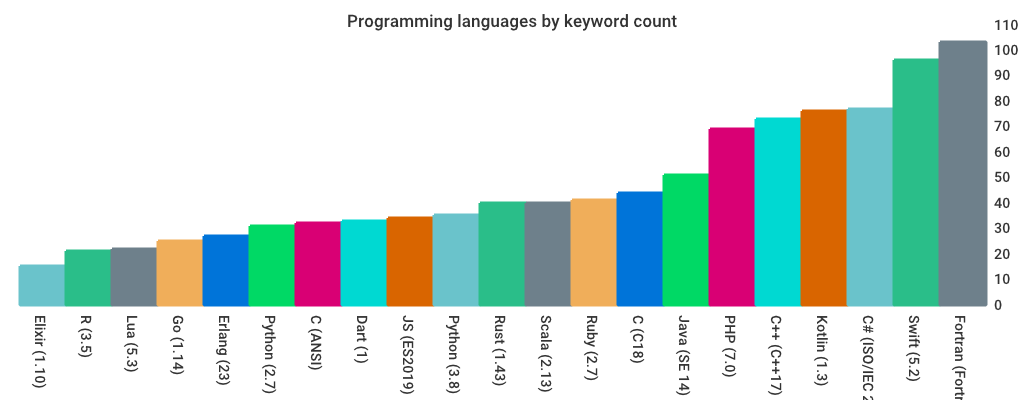
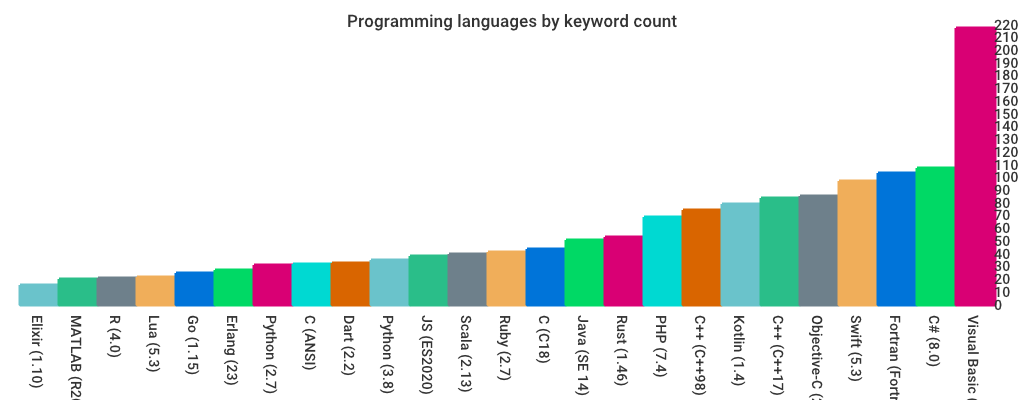
[skip ci] Rebuild README.md and chart.png from chart.yaml update

diff --git a/README.md b/README.md
@@ -3,6 +3,8 @@
 A list and count of keywords in programming languages. Based on work originally
 compiled by [@leighmcculloch](https://github.com/leighmcculloch) and contributors.
 
+_2020 update:_ I'm slowly working through this list and trying to standardize the meaning of "keyword" to be any word with special meaning in the language, as opposed to "reserved words" which cannot be used as identifiers. You may see some drastic changes depending on the language.
+
 ![Languages by keyword](chart.png)
 
 ## Why does it matter?
@@ -17,25 +19,29 @@ Don't see a language here? Please open a pull request adding it!
 
 * [C (ANSI) (32 keywords)](#c-ansi-32-keywords)
 * [C (C18) (44 keywords)](#c-c18-44-keywords)
-* [C# (ISO/IEC 23270:2018) (77 keywords)](#c-iso-iec-23270-2018-77-keywords)
-* [C++ (C++17) (73 keywords)](#c-c-17-73-keywords)
-* [Dart (1) (33 keywords)](#dart-1-33-keywords)
+* [C# (8.0) (107 keywords)](#c-80-107-keywords)
+* [C++ (C++17) (84 keywords)](#c-c-17-84-keywords)
+* [C++ (C++98) (74 keywords)](#c-c-98-74-keywords)
+* [Dart (2.2) (33 keywords)](#dart-22-33-keywords)
 * [Elixir (1.10) (15 keywords)](#elixir-110-15-keywords)
 * [Erlang (23) (27 keywords)](#erlang-23-27-keywords)
 * [Fortran (Fortran 2008) (103 keywords)](#fortran-fortran-2008-103-keywords)
-* [Go (1.14) (25 keywords)](#go-114-25-keywords)
-* [JS (ES2019) (34 keywords)](#js-es2019-34-keywords)
+* [Go (1.15) (25 keywords)](#go-115-25-keywords)
+* [JS (ES2020) (38 keywords)](#js-es2020-38-keywords)
 * [Java (SE 14) (51 keywords)](#java-se-14-51-keywords)
-* [Kotlin (1.3) (76 keywords)](#kotlin-13-76-keywords)
+* [Kotlin (1.4) (79 keywords)](#kotlin-14-79-keywords)
 * [Lua (5.3) (22 keywords)](#lua-53-22-keywords)
-* [PHP (7.0) (69 keywords)](#php-70-69-keywords)
+* [MATLAB (R2020a) (20 keywords)](#matlab-r2020a-20-keywords)
+* [Objective-C (2.0) (85 keywords)](#objective-c-20-85-keywords)
+* [PHP (7.4) (69 keywords)](#php-74-69-keywords)
 * [Python (2.7) (31 keywords)](#python-27-31-keywords)
 * [Python (3.8) (35 keywords)](#python-38-35-keywords)
-* [R (3.5) (21 keywords)](#r-35-21-keywords)
+* [R (4.0) (21 keywords)](#r-40-21-keywords)
 * [Ruby (2.7) (41 keywords)](#ruby-27-41-keywords)
-* [Rust (1.43) (40 keywords)](#rust-143-40-keywords)
+* [Rust (1.46) (53 keywords)](#rust-146-53-keywords)
 * [Scala (2.13) (40 keywords)](#scala-213-40-keywords)
-* [Swift (5.2) (96 keywords)](#swift-52-96-keywords)
+* [Swift (5.3) (97 keywords)](#swift-53-97-keywords)
+* [Visual Basic (2019) (217 keywords)](#visual-basic-2019-217-keywords)
 
 ### C (ANSI) (32 keywords)
 | | | | |
@@ -72,7 +78,7 @@ Don't see a language here? Please open a pull request adding it!
 #### Sources:
 
 [http://www.open-std.org/jtc1/sc22/wg14/www/abq/c17_updated_proposed_fdis.pdf](http://www.open-std.org/jtc1/sc22/wg14/www/abq/c17_updated_proposed_fdis.pdf)
-### C# (ISO/IEC 23270:2018) (77 keywords)
+### C# (8.0) (107 keywords)
 | | | | |
 |---|---|---|---|
 |  abstract | as | base | bool |
@@ -94,13 +100,20 @@ Don't see a language here? Please open a pull request adding it!
 |  true | try | typeof | uint |
 |  ulong | unchecked | unsafe | ushort |
 |  using | virtual | void | volatile |
-|  while |
+|  while | add | alias | ascending |
+|  async | await | by | descending |
+|  dynamic | equals | from | get |
+|  global | group | into | join |
+|  let | nameof | notnull | on |
+|  orderby | partial | remove | select |
+|  set | unmanaged | value | var |
+|  when | where | yield |
 
 
 #### Sources:
 
 [https://standards.iso.org/ittf/PubliclyAvailableStandards/c075178_ISO_IEC_23270_2018.zip](https://standards.iso.org/ittf/PubliclyAvailableStandards/c075178_ISO_IEC_23270_2018.zip)
-### C++ (C++17) (73 keywords)
+### C++ (C++17) (84 keywords)
 | | | | |
 |---|---|---|---|
 |  alignas | alignof | asm | auto |
@@ -121,13 +134,42 @@ Don't see a language here? Please open a pull request adding it!
 |  true | try | typedef | typeid |
 |  typename | union | unsigned | using |
 |  virtual | void | volatile | wchar_t |
-|  while |
+|  while | and | and_eq | bitand |
+|  bitor | compl | not | not_eq |
+|  or | or_eq | xor | xor_eq |
 
 
 #### Sources:
 
 [http://www.open-std.org/jtc1/sc22/wg21/docs/papers/2017/n4659.pdf](http://www.open-std.org/jtc1/sc22/wg21/docs/papers/2017/n4659.pdf)
-### Dart (1) (33 keywords)
+### C++ (C++98) (74 keywords)
+| | | | |
+|---|---|---|---|
+|  asm | auto | bool | break |
+|  case | catch | char | class |
+|  const | const_cast | continue | default |
+|  delete | do | double | dynamic_cast |
+|  else | enum | explicit | export |
+|  extern | false | float | for |
+|  friend | goto | if | inline |
+|  int | long | mutable | namespace |
+|  new | operator | private | protected |
+|  public | register | reinterpret_cast | return |
+|  short | signed | sizeof | static |
+|  static_cast | struct | switch | template |
+|  this | throw | true | try |
+|  typedef | typeid | typename | union |
+|  unsigned | using | virtual | void |
+|  volatile | wchar_t | while | and |
+|  and_eq | bitand | bitor | compl |
+|  not | not_eq | or | or_eq |
+|  xor | xor_eq |
+
+
+#### Sources:
+
+[http://www.lirmm.fr/~ducour/Doc-objets/ISO+IEC+14882-1998.pdf](http://www.lirmm.fr/~ducour/Doc-objets/ISO+IEC+14882-1998.pdf)
+### Dart (2.2) (33 keywords)
 | | | | |
 |---|---|---|---|
 |  assert | break | case | catch |
@@ -143,7 +185,7 @@ Don't see a language here? Please open a pull request adding it!
 
 #### Sources:
 
-[http://www.ecma-international.org/publications/files/ECMA-ST/ECMA-408.pdf](http://www.ecma-international.org/publications/files/ECMA-ST/ECMA-408.pdf)
+[https://dart.dev/guides/language/specifications/DartLangSpec-v2.2.pdf](https://dart.dev/guides/language/specifications/DartLangSpec-v2.2.pdf)
 ### Elixir (1.10) (15 keywords)
 | | | | |
 |---|---|---|---|
@@ -205,7 +247,7 @@ Don't see a language here? Please open a pull request adding it!
 #### Sources:
 
 [http://fortranwiki.org/fortran/show/Keywords](http://fortranwiki.org/fortran/show/Keywords)
-### Go (1.14) (25 keywords)
+### Go (1.15) (25 keywords)
 | | | | |
 |---|---|---|---|
 |  break | case | chan | const |
@@ -220,16 +262,17 @@ Don't see a language here? Please open a pull request adding it!
 #### Sources:
 
 [https://golang.org/ref/spec#Keywords](https://golang.org/ref/spec#Keywords)
-### JS (ES2019) (34 keywords)
+### JS (ES2020) (38 keywords)
 | | | | |
 |---|---|---|---|
 |  await | break | case | catch |
 |  class | const | continue | debugger |
 |  default | delete | do | else |
-|  export | extends | finally | for |
-|  function | if | import | in |
-|  instanceof | new | return | super |
-|  switch | this | throw | try |
+|  enum | export | extends | false |
+|  finally | for | function | if |
+|  import | in | instanceof | new |
+|  null | return | super | switch |
+|  this | throw | true | try |
 |  typeof | var | void | while |
 |  with | yield |
 
@@ -258,7 +301,7 @@ Don't see a language here? Please open a pull request adding it!
 #### Sources:
 
 [https://docs.oracle.com/javase/specs/jls/se11/html/jls-3.html#jls-3.9](https://docs.oracle.com/javase/specs/jls/se11/html/jls-3.html#jls-3.9)
-### Kotlin (1.3) (76 keywords)
+### Kotlin (1.4) (79 keywords)
 | | | | |
 |---|---|---|---|
 |  as | as? | break | class |
@@ -267,19 +310,20 @@ Don't see a language here? Please open a pull request adding it!
 |  !in | interface | is | !is |
 |  null | object | package | return |
 |  super | this | throw | true |
-|  try | typealias | val | var |
-|  when | while | by | catch |
-|  constructor | delegate | dynamic | field |
-|  file | finally | get | import |
-|  init | param | property | receiver |
-|  set | setparam | where | actual |
-|  abstract | annotation | companion | const |
-|  crossinline | data | enum | expect |
-|  external | final | infix | inline |
-|  inner | internal | lateinit | noinline |
-|  open | operator | out | override |
-|  private | protected | public | reified |
-|  sealed | suspend | tailrec | vararg |
+|  try | typealias | typeof | val |
+|  var | when | while | by |
+|  catch | constructor | delegate | dynamic |
+|  field | file | finally | get |
+|  import | init | param | property |
+|  receiver | set | setparam | where |
+|  actual | abstract | annotation | companion |
+|  const | crossinline | data | enum |
+|  expect | external | final | infix |
+|  inline | inner | internal | lateinit |
+|  noinline | open | operator | out |
+|  override | private | protected | public |
+|  reified | sealed | suspend | tailrec |
+|  vararg | field | it |
 
 
 #### Sources:
@@ -299,7 +343,50 @@ Don't see a language here? Please open a pull request adding it!
 #### Sources:
 
 [https://www.lua.org/manual/5.3/manual.html#3.1](https://www.lua.org/manual/5.3/manual.html#3.1)
-### PHP (7.0) (69 keywords)
+### MATLAB (R2020a) (20 keywords)
+| | | | |
+|---|---|---|---|
+|  break | case | catch | classdef |
+|  continue | else | elseif | end |
+|  for | function | global | if |
+|  otherwise | parfor | persistent | return |
+|  spmd | switch | try | while |
+
+
+#### Sources:
+
+[https://www.mathworks.com/help/matlab/ref/iskeyword.html](https://www.mathworks.com/help/matlab/ref/iskeyword.html)
+### Objective-C (2.0) (85 keywords)
+| | | | |
+|---|---|---|---|
+|  asm | auto | break | case |
+|  char | const | continue | default |
+|  do | double | else | enum |
+|  extern | float | for | goto |
+|  if | inline | int | long |
+|  register | restrict | return | short |
+|  signed | sizeof | static | struct |
+|  switch | typedef | union | unsigned |
+|  void | volatile | while | _Bool |
+|  _Complex | __block | Imaginary | id |
+|  Class | SEL | IMP | BOOL |
+|  nil | Nil | YES | NO |
+|  self | super | _cmd | __strong |
+|  __weak | __autoreleasing | __unsafe_unretained | oneway |
+|  In | out | inout | bycopy |
+|  byref | @autoreleasepool | @interface | @implementation |
+|  @protocol | @end | @private | @protected |
+|  @public | @package | @try | @throw |
+|  @catch() | @finally | @property | @synthesize |
+|  @dynamic | @class | @selector() | @protocol() |
+|  @required | @optional | @encode | @"string" |
+|  @synchronized() |
+
+
+#### Sources:
+
+[https://learning.oreilly.com/library/view/learning-objective-c-20/9780321712110/](https://learning.oreilly.com/library/view/learning-objective-c-20/9780321712110/)
+### PHP (7.4) (69 keywords)
 | | | | |
 |---|---|---|---|
 |  __halt_compiler() | abstract | and | array() |
@@ -358,7 +445,7 @@ Don't see a language here? Please open a pull request adding it!
 #### Sources:
 
 [https://docs.python.org/3.8/reference/lexical_analysis.html#keywords](https://docs.python.org/3.8/reference/lexical_analysis.html#keywords)
-### R (3.5) (21 keywords)
+### R (4.0) (21 keywords)
 | | | | |
 |---|---|---|---|
 |  ... | ..1 | FALSE | Inf |
@@ -391,7 +478,7 @@ Don't see a language here? Please open a pull request adding it!
 #### Sources:
 
 [https://docs.ruby-lang.org/en/2.7.0/keywords_rdoc.html](https://docs.ruby-lang.org/en/2.7.0/keywords_rdoc.html)
-### Rust (1.43) (40 keywords)
+### Rust (1.46) (53 keywords)
 | | | | |
 |---|---|---|---|
 |  as | break | const | continue |
@@ -403,7 +490,11 @@ Don't see a language here? Please open a pull request adding it!
 |  Self | static | struct | super |
 |  trait | true | type | unsafe |
 |  use | where | while | async |
-|  await | dyn | union | \'static |
+|  await | dyn | abstract | become |
+|  box | do | final | macro |
+|  override | priv | typeof | unsized |
+|  virtual | yield | try | union |
+|  \'static |
 
 
 #### Sources:
@@ -427,7 +518,7 @@ Don't see a language here? Please open a pull request adding it!
 #### Sources:
 
 [https://scala-lang.org/files/archive/spec/2.13/01-lexical-syntax.html](https://scala-lang.org/files/archive/spec/2.13/01-lexical-syntax.html)
-### Swift (5.2) (96 keywords)
+### Swift (5.3) (97 keywords)
 | | | | |
 |---|---|---|---|
 |  associatedtype | class | deinit | enum |
@@ -445,18 +536,82 @@ Don't see a language here? Please open a pull request adding it!
 |  Self | throw | throws | true |
 |  try | _ | #available | #colorLiteral |
 |  #column | #else | #elseif | #endif |
-|  #error | #file | #fileLiteral | #function |
-|  #if | #imageLiteral | #line | #selector |
-|  #sourceLocation | #warning | associativity | convenience |
-|  dynamic | didSet | final | get |
-|  infix | indirect | lazy | left |
-|  mutating | none | nonmutating | optional |
-|  override | postfix | precedence | prefix |
-|  Protocol | required | right | set |
-|  Type | unowned | weak | willSet |
+|  #error | #file | #filePath | #fileLiteral |
+|  #function | #if | #imageLiteral | #line |
+|  #selector | #sourceLocation | #warning | associativity |
+|  convenience | dynamic | didSet | final |
+|  get | infix | indirect | lazy |
+|  left | mutating | none | nonmutating |
+|  optional | override | postfix | precedence |
+|  prefix | Protocol | required | right |
+|  set | Type | unowned | weak |
+|  willSet |
 
 
 #### Sources:
 
 [https://docs.swift.org/swift-book/ReferenceManual/LexicalStructure.html](https://docs.swift.org/swift-book/ReferenceManual/LexicalStructure.html)
+### Visual Basic (2019) (217 keywords)
+| | | | |
+|---|---|---|---|
+|  AddHandler | AddressOf | Alias | And |
+|  AndAlso | As | Boolean | ByRef |
+|  Byte | ByVal | Call | Case |
+|  Catch | CBool | CByte | CChar |
+|  CDate | CDbl | CDec | Char |
+|  CInt | Class | CLng | CObj |
+|  Const | Continue | CSByte | CShort |
+|  CSng | CStr | CType | CUInt |
+|  CULng | CUShort | Date | Decimal |
+|  Declare | Default | Delegate | Dim |
+|  DirectCast | Do | Double | Each |
+|  Else | ElseIf | End | EndIf |
+|  Enum | Erase | Error | Event |
+|  Exit | False | Finally | For |
+|  For Each | Friend | Function | Get |
+|  GetType | GetXMLNamespace | Global | GoSub |
+|  GoTo | Handles | If | If() |
+|  Implements | Imports | In | Inherits |
+|  Integer | Interface | Is | IsNot |
+|  Let | Lib | Like | Long |
+|  Loop | Me | Mod | Module |
+|  MustInherit | MustOverride | MyBase | MyClass |
+|  NameOf | Namespace | Narrowing | New |
+|  Next | Not | Nothnig | NotInheritable |
+|  NotOverridable | Object | Of | On |
+|  Operator | Option | Optional | Or |
+|  OrElse | Out | Overloads | Overridable |
+|  Overrides | ParamArray | Partial | Private |
+|  Property | Protected | Public | RaiseEvent |
+|  ReadOnly | ReDim | REM | RemoveHandler |
+|  Resume | Return | SByte | Select |
+|  Set | Shadows | Shared | Short |
+|  Single | Static | Step | Stop |
+|  String | Structure | Sub | SyncLock |
+|  Then | Throw | To | True |
+|  Try | TryCast | TypeOf | UInteger |
+|  ULong | UShort | Using | Variant |
+|  Wend | When | While | Widening |
+|  With | WithEvents | WriteOnly | Xor |
+|  #Const | #Else | #ElseIf | #End |
+|  #If | = | & | &= |
+|  * | *= | / | /= |
+|  \ | \= | ^ | ^= |
+|  + | += | - | -= |
+|  >> | >>= | << | <<= |
+|  Aggregate | Ansi | Assembly | Async |
+|  Auto | Await | Binary | Compare |
+|  Custom | Distinct | Equals | Explicit |
+|  From | Group By | Group Join | Into |
+|  IsFalse | IsTrue | Iterator | Join |
+|  Key | Mid | Off | Order By |
+|  Preserve | Skip | Skip While | Strict |
+|  Take | Take While | Text | Unicode |
+|  Until | Where | Yield | #ExternalSource |
+|  #Region |
+
+
+#### Sources:
+
+[https://docs.microsoft.com/en-us/dotnet/visual-basic/language-reference/keywords/](https://docs.microsoft.com/en-us/dotnet/visual-basic/language-reference/keywords/)
 
